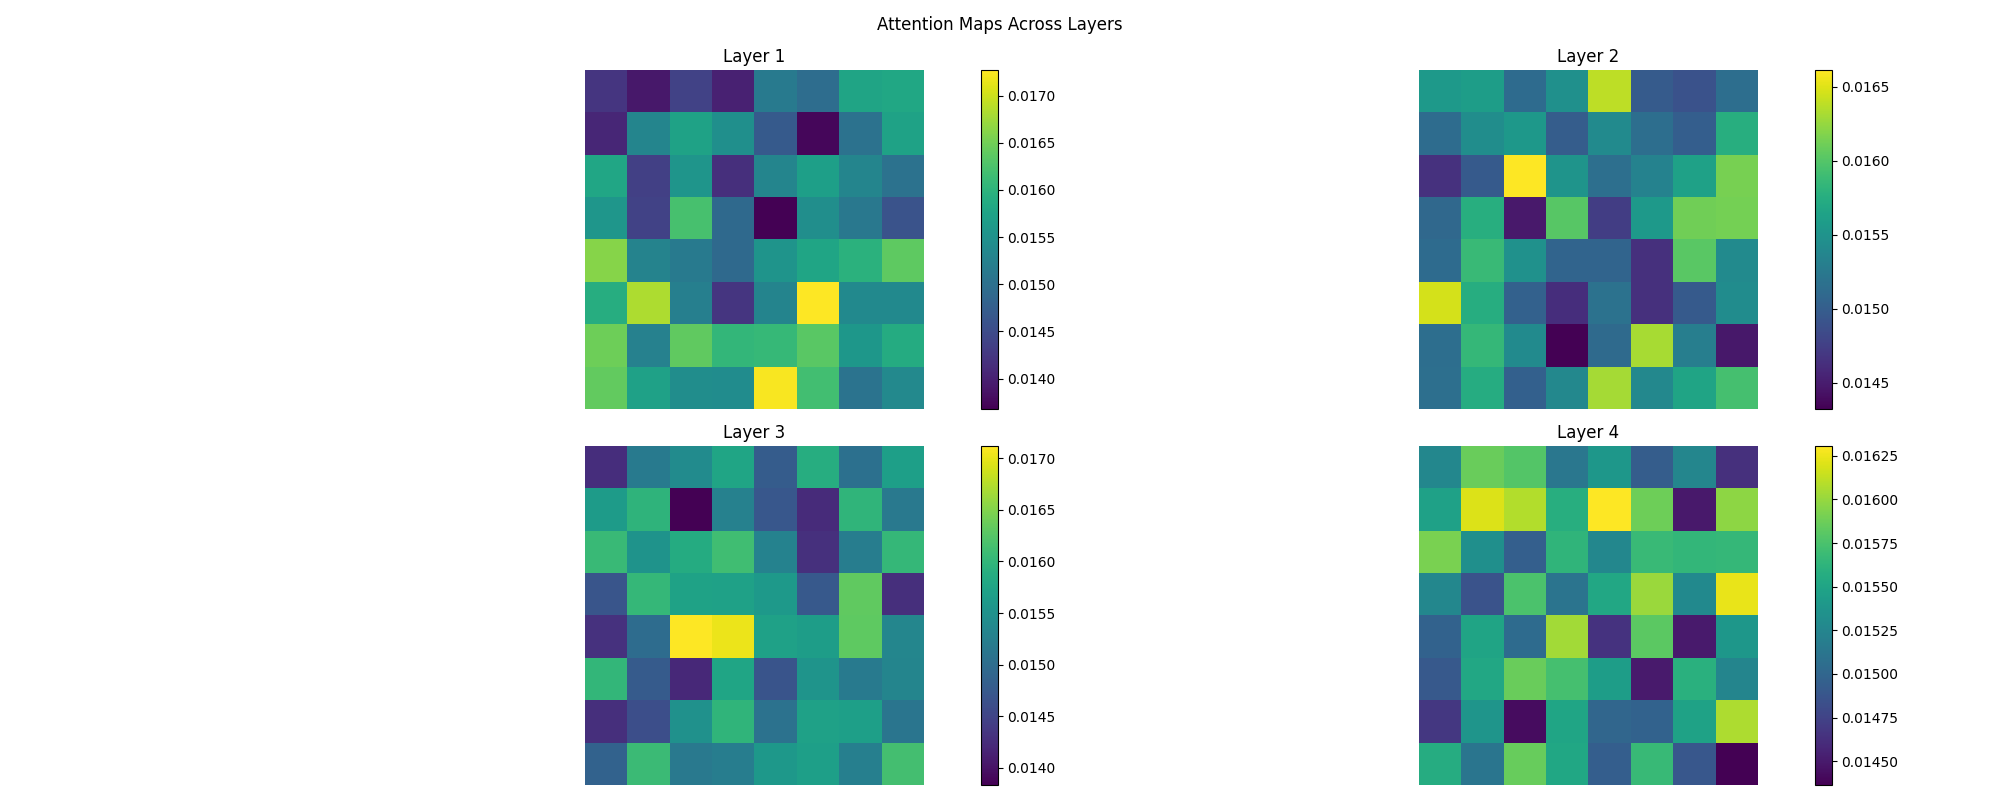
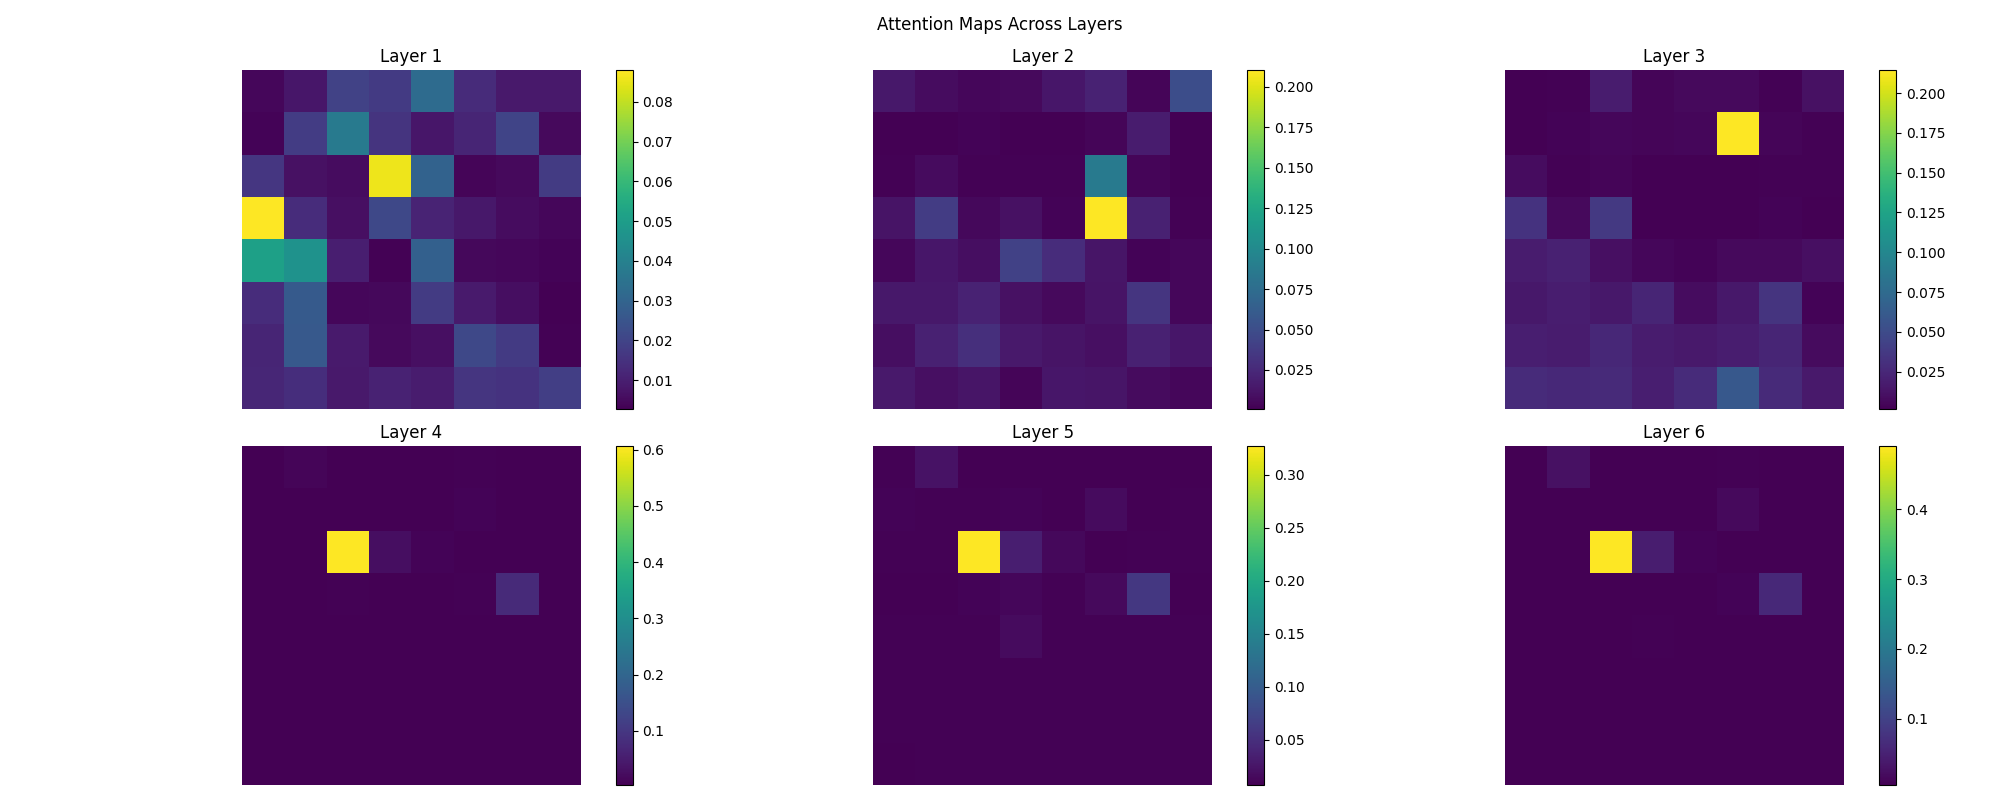
Ran ex2 with 20 Optuna trials, plotted attention, and hyperparam impact etc

diff --git a/week2_exercises/imageclassification.py b/week2_exercises/imageclassification.py
@@ -5,7 +5,6 @@ import torch
 from torch import nn
 import torch.nn.functional as F
 from tqdm import tqdm
-import itertools
 import matplotlib.pyplot as plt
 import seaborn as sns
 import torchvision
@@ -13,8 +12,8 @@ import torchvision.transforms as transforms
 from torch.utils.data import DataLoader, random_split
 from vit import ViT
 from vit_analysis import plot_hyperparameter_impact, visualize_attention
-
-
+import optuna
+import pandas as pd
 
 # Constants
 CIFAR_MEAN = (0.5, 0.5, 0.5)
@@ -31,97 +30,75 @@ def set_seed(seed=1):
 def select_two_classes_from_cifar10(dataset, classes):
     idx = (np.array(dataset.targets) == classes[0]) | (np.array(dataset.targets) == classes[1])
     dataset.targets = np.array(dataset.targets)[idx]
-    dataset.targets[dataset.targets==classes[0]] = 0
-    dataset.targets[dataset.targets==classes[1]] = 1
-    dataset.targets= dataset.targets.tolist()  
+    dataset.targets[dataset.targets == classes[0]] = 0
+    dataset.targets[dataset.targets == classes[1]] = 1
+    dataset.targets = dataset.targets.tolist()
     dataset.data = dataset.data[idx]
     return dataset
 
 def prepare_dataloaders(batch_size, classes=[3, 7]):
-    # Data augmentation for training
     train_transform = transforms.Compose([
         transforms.RandomHorizontalFlip(),
         transforms.RandomRotation(10),
-        transforms.RandomAffine(0, shear=10, scale=(0.8,1.2)),
+        transforms.RandomAffine(0, shear=10, scale=(0.8, 1.2)),
         transforms.ColorJitter(brightness=0.2, contrast=0.2, saturation=0.2),
         transforms.ToTensor(),
         transforms.Normalize(CIFAR_MEAN, CIFAR_STD)
     ])
-
-    # Test transform - only normalize
     test_transform = transforms.Compose([
         transforms.ToTensor(),
         transforms.Normalize(CIFAR_MEAN, CIFAR_STD)
     ])
 
     try:
-        trainset = torchvision.datasets.CIFAR10(root='./data', train=True,
-                                               download=True, transform=train_transform)
-        testset = torchvision.datasets.CIFAR10(root='./data', train=False,
-                                              download=True, transform=test_transform)
+        trainset = torchvision.datasets.CIFAR10(root='./data', train=True, download=True, transform=train_transform)
+        testset = torchvision.datasets.CIFAR10(root='./data', train=False, download=True, transform=test_transform)
     except Exception as e:
         print(f"Error loading dataset: {e}")
-        print("Creating data directory...")
         os.makedirs('./data', exist_ok=True)
-        trainset = torchvision.datasets.CIFAR10(root='./data', train=True,
-                                               download=True, transform=train_transform)
-        testset = torchvision.datasets.CIFAR10(root='./data', train=False,
-                                              download=True, transform=test_transform)
+        trainset = torchvision.datasets.CIFAR10(root='./data', train=True, download=True, transform=train_transform)
+        testset = torchvision.datasets.CIFAR10(root='./data', train=False, download=True, transform=test_transform)
 
-    # Select two classes
     trainset = select_two_classes_from_cifar10(trainset, classes=classes)
     testset = select_two_classes_from_cifar10(testset, classes=classes)
 
-    # Reduce dataset size
-    train_size = 5000
-    test_size = 1000
+    train_size, test_size = 5000, 1000
     trainset, _ = random_split(trainset, [train_size, len(trainset) - train_size])
     testset, _ = random_split(testset, [test_size, len(testset) - test_size])
 
-    # Create data loaders
-    trainloader = DataLoader(trainset, batch_size=batch_size,
-                           shuffle=True, num_workers=2, pin_memory=True)
-    testloader = DataLoader(testset, batch_size=batch_size,
-                          shuffle=False, num_workers=2, pin_memory=True)
-
+    trainloader = DataLoader(trainset, batch_size=batch_size, shuffle=True, num_workers=2, pin_memory=True)
+    testloader = DataLoader(testset, batch_size=batch_size, shuffle=False, num_workers=2, pin_memory=True)
     return trainloader, testloader, trainset, testset
 
-
-def main(image_size=(32,32), patch_size=(4,4), channels=3, 
-         embed_dim=128, num_heads=4, num_layers=4, num_classes=2,
-         pos_enc='learnable', pool='cls', dropout=0.3, fc_dim=None, 
-         num_epochs=20, batch_size=16, lr=1e-4, warmup_steps=625,
-         weight_decay=1e-3, gradient_clipping=1
-    ):
-    """Returns the best validation accuracy and model state"""
-    
+def train_and_evaluate(image_size=(32, 32), patch_size=(4, 4), channels=3, 
+                       embed_dim=128, num_heads=4, num_layers=4, num_classes=2,
+                       pos_enc='learnable', pool='cls', dropout=0.3, fc_dim=None, 
+                       num_epochs=20, batch_size=16, lr=1e-4, warmup_steps=625,
+                       weight_decay=1e-3, gradient_clipping=1):
+    """Train and evaluate the model, returning the best validation accuracy and model."""
     loss_function = nn.CrossEntropyLoss()
     trainloader, testloader, _, _ = prepare_dataloaders(batch_size=batch_size)
 
-    model = ViT(image_size=image_size, patch_size=patch_size, channels=channels, 
+    model = ViT(image_size=image_size, patch_size=patch_size, channels=channels,
                 embed_dim=embed_dim, num_heads=num_heads, num_layers=num_layers,
-                pos_enc=pos_enc, pool=pool, dropout=dropout, fc_dim=fc_dim, 
+                pos_enc=pos_enc, pool=pool, dropout=dropout, fc_dim=fc_dim,
                 num_classes=num_classes)
     
-    if torch.cuda.is_available():
-        model = model.to('cuda')
+    device = torch.device('cuda' if torch.cuda.is_available() else 'cpu')
+    model = model.to(device)
 
     opt = torch.optim.AdamW(lr=lr, params=model.parameters(), weight_decay=weight_decay)
     sch = torch.optim.lr_scheduler.LambdaLR(opt, lambda i: min(i / warmup_steps, 1.0))
 
-    best_val_loss = 1e10
+    best_val_loss = float('inf')
     best_accuracy = 0.0
     best_model_state = None
 
-    # training loop
     for e in range(num_epochs):
-        print(f'\n epoch {e}')
         model.train()
         train_loss = 0
-        progress_bar = tqdm(trainloader, desc=f'Epoch {e+1}/{num_epochs}')
-        for image, label in progress_bar:
-            if torch.cuda.is_available():
-                image, label = image.to('cuda'), label.to('cuda')
+        for image, label in tqdm(trainloader, desc=f'Epoch {e+1}/{num_epochs}', leave=False):
+            image, label = image.to(device), label.to(device)
             opt.zero_grad()
             out = model(image)
             loss = loss_function(out, label)
@@ -131,19 +108,15 @@ def main(image_size=(32,32), patch_size=(4,4), channels=3,
                 nn.utils.clip_grad_norm_(model.parameters(), gradient_clipping)
             opt.step()
             sch.step()
-            
-            # Update progress bar
-            progress_bar.set_postfix({'loss': f'{loss.item():.3f}'})
 
-        train_loss/=len(trainloader)
+        train_loss /= len(trainloader)
 
         val_loss = 0
         with torch.no_grad():
             model.eval()
-            tot, cor= 0.0, 0.0
+            tot, cor = 0.0, 0.0
             for image, label in testloader:
-                if torch.cuda.is_available():
-                    image, label = image.to('cuda'), label.to('cuda')
+                image, label = image.to(device), label.to(device)
                 out = model(image)
                 loss = loss_function(out, label)
                 val_loss += loss.item()
@@ -152,116 +125,101 @@ def main(image_size=(32,32), patch_size=(4,4), channels=3,
                 cor += float((label == out).sum().item())
             acc = cor / tot
             val_loss /= len(testloader)
-            print(f'-- train loss {train_loss:.3f} -- validation accuracy {acc:.3f} -- validation loss: {val_loss:.3f}')
-            if val_loss <= best_val_loss:
-                torch.save(model.state_dict(), 'model.pth')
+            print(f'Epoch {e+1}: train_loss={train_loss:.3f}, val_acc={acc:.3f}, val_loss={val_loss:.3f}')
+            if val_loss < best_val_loss:
                 best_val_loss = val_loss
                 best_accuracy = acc
                 best_model_state = model.state_dict()
 
-    # Load best model state
-    model.load_state_dict(torch.load('model.pth'))
+    torch.save(best_model_state, 'best_model.pth')
+    model.load_state_dict(best_model_state)
     return best_accuracy, model, testloader
 
-if __name__ == "__main__":
-    device = torch.device('cuda' if torch.cuda.is_available() else 'cpu')  
-    print(f"Model will run on {device}")
-    
-    # Expanded hyperparameter grid
-    grid = {
-        'embed_dim': [128, 256],
-        'num_heads': [4, 8],
-        'num_layers': [4, 6],
-        'dropout': [0.1, 0.3],
-        'pool': ['cls', 'mean'],
-        'lr': [1e-4, 3e-4]
-    }
-    
-    # Store results
-    results = []
-    best_overall_acc = 0.0
-    best_overall_model = None
-    best_test_iter = None
+def objective(trial):
+    """Optuna objective function to optimize hyperparameters."""
+    # Define hyperparameter search space
+    embed_dim = trial.suggest_categorical('embed_dim', [128, 256])
+    num_heads = trial.suggest_categorical('num_heads', [4, 8])
+    num_layers = trial.suggest_categorical('num_layers', [4, 6])
+    dropout = trial.suggest_categorical('dropout', [0.1, 0.3])
+    pool = trial.suggest_categorical('pool', ['cls', 'mean'])
+    lr = trial.suggest_categorical('lr', [1e-4, 3e-4])
+    num_epochs = trial.suggest_int('num_epochs', 5, 20)  # Searchable epochs
 
-    # Modify main function call to use more epochs but not too many
-    def quick_main(**kwargs):
-        return main(**kwargs, num_epochs=5)  # Increased to 5 epochs
-    
-    total_combinations = len(list(itertools.product(
-        grid['embed_dim'], grid['num_heads'], grid['num_layers'],
-        grid['dropout'], grid['pool'], grid['lr']
-    )))
-    print(f"\nTotal configurations to test: {total_combinations}")
-    
-    # Grid search with progress tracking
-    for idx, (embed_dim, num_heads, num_layers, dropout, pool, lr) in enumerate(itertools.product(
-            grid['embed_dim'], grid['num_heads'], grid['num_layers'],
-            grid['dropout'], grid['pool'], grid['lr']
-    ), 1):
-        
-        # Skip invalid combinations
-        if embed_dim % num_heads != 0:
-            continue
-            
-        print(f"\nConfiguration {idx}/{total_combinations}:")
-        print(f"embed_dim={embed_dim}, num_heads={num_heads}, "
-              f"num_layers={num_layers}, dropout={dropout}, pool={pool}, lr={lr}")
-        
-        set_seed(seed=1)
-        
-        # Train model with this configuration
-        acc, model, test_iter = quick_main(
-            embed_dim=embed_dim,
-            num_heads=num_heads,
-            num_layers=num_layers,
-            dropout=dropout,
-            pool=pool,
-            lr=lr
-        )
-        
-        # Store results
-        result = {
-            'embed_dim': embed_dim,
-            'num_heads': num_heads,
-            'num_layers': num_layers,
-            'dropout': dropout,
-            'pool': pool,
-            'lr': lr,
-            'accuracy': acc
-        }
-        results.append(result)
-        
-        # Track best model
-        if acc > best_overall_acc:
-            best_overall_acc = acc
-            best_overall_model = model
-            best_test_iter = test_iter
-            print(f"\nNew best accuracy: {acc:.3f}")
+    # Ensure embed_dim is divisible by num_heads
+    if embed_dim % num_heads != 0:
+        raise optuna.TrialPruned()
+
+    set_seed(1)
+    accuracy, model, testloader = train_and_evaluate(
+        embed_dim=embed_dim,
+        num_heads=num_heads,
+        num_layers=num_layers,
+        dropout=dropout,
+        pool=pool,
+        lr=lr,
+        num_epochs=num_epochs
+    )
+
+    # Store additional trial info
+    trial.set_user_attr('model', model)
+    trial.set_user_attr('testloader', testloader)
+    return accuracy
+
+if __name__ == "__main__":
+    device = torch.device('cuda' if torch.cuda.is_available() else 'cpu')
+    print(f"Model will run on {device}")
+
+    # Create Optuna study
+    study = optuna.create_study(direction='maximize')
+    study.optimize(objective, n_trials=20)  # Adjust number of trials as needed
+
+    # Collect results
+    results = []
+    for trial in study.trials:
+        if trial.state == optuna.trial.TrialState.COMPLETE:
+            result = {
+                'trial_number': trial.number,
+                'embed_dim': trial.params['embed_dim'],
+                'num_heads': trial.params['num_heads'],
+                'num_layers': trial.params['num_layers'],
+                'dropout': trial.params['dropout'],
+                'pool': trial.params['pool'],
+                'lr': trial.params['lr'],
+                'num_epochs': trial.params['num_epochs'],
+                'accuracy': trial.value
+            }
+            results.append(result)
+
+    # Save results to CSV
+    results_df = pd.DataFrame(results)
+    results_df.to_csv('hyperparameter_results.csv', index=False)
+    print("\nResults saved to 'hyperparameter_results.csv'")
 
     # Analyze results
     print("\nAnalyzing results...")
-    
-    # Plot hyperparameter impact
     plot_hyperparameter_impact(results)
-    
-    # Get a sample batch for attention visualization
-    sample_batch = next(iter(best_test_iter))
+
+    # Get best trial
+    best_trial = study.best_trial
+    best_accuracy = best_trial.value
+    best_model = best_trial.user_attrs['model']
+    best_testloader = best_trial.user_attrs['testloader']
+    print(f"\nBest accuracy: {best_accuracy:.3f}")
+    print("Best Configuration:")
+    for k, v in best_trial.params.items():
+        print(f"{k}: {v}")
+
+    # Visualize attention maps for best model
+    sample_batch = next(iter(best_testloader))
     sample_images, _ = sample_batch
     sample_image = sample_images[0]
-    
-    # Visualize attention maps for best model
-    visualize_attention(best_overall_model, sample_image, save_path='attention_maps.png')
-    
-    # Print summary statistics
+    visualize_attention(best_model, sample_image, save_path='attention_maps.png')
+
+    # Summary statistics
     accuracies = [r['accuracy'] for r in results]
     print("\nSummary Statistics:")
     print(f"Mean accuracy: {np.mean(accuracies):.3f}")
     print(f"Std accuracy: {np.std(accuracies):.3f}")
     print(f"Min accuracy: {np.min(accuracies):.3f}")
     print(f"Max accuracy: {np.max(accuracies):.3f}")
-    
-    # Print best configuration
-    best_result = max(results, key=lambda x: x['accuracy'])
-    print("\nBest Configuration:")
-    for k, v in best_result.items():
-        print(f"{k}: {v}")
